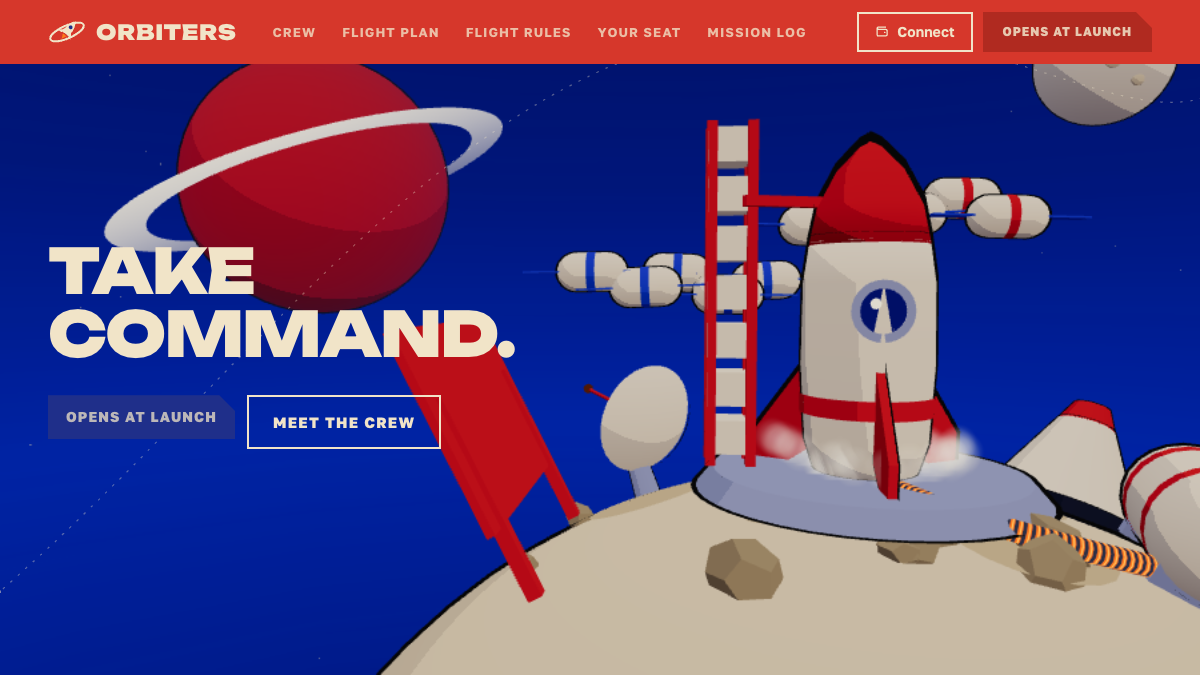
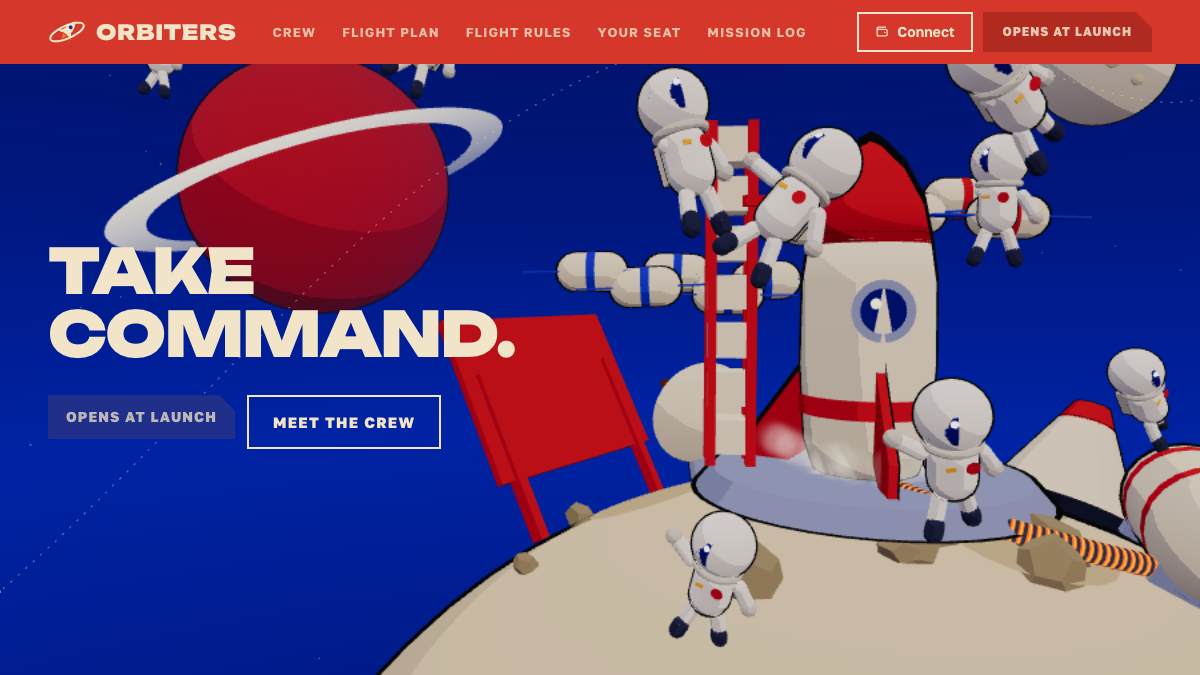
Hero: a crowd of cartoon astronauts drifting around the rocket
Nine on desktop, five on phones, in full suits (helmet with visor and glint,
neck ring, backpack, patch, gloves, boots), one arm waving. Placed by where
they land in the opening frame so they float beside and above the rocket,
never behind the headline; they drift on slow loops and sway toward the
camera. og-image recaptured.

diff --git a/src/kp/SpaceWalk.tsx b/src/kp/SpaceWalk.tsx
@@ -592,6 +592,130 @@ function Radar() {
   );
 }
 
+/* ───────── astronauts drifting around the pad in their suits ───────── */
+type Drift = { at: THREE.Vector3; scale: number; phase: number; wave: number };
+/**
+ * Placed by where they should land in the opening's frame (sx, sy in -1..1, depth d), so they
+ * float beside and above the rocket and never behind the headline.
+ */
+function inView(pos: V3, look: V3, fov: number, aspect: number, spots: [number, number, number, number][]): Drift[] {
+  const p = new THREE.Vector3(...pos);
+  const f = new THREE.Vector3(...look).sub(p).normalize();
+  const right = new THREE.Vector3().crossVectors(f, new THREE.Vector3(0, 1, 0)).normalize();
+  const up = new THREE.Vector3().crossVectors(right, f);
+  const tv = Math.tan(THREE.MathUtils.degToRad(fov / 2));
+  return spots.map(([sx, sy, d, scale], i) => ({
+    at: p.clone().addScaledVector(f, d).addScaledVector(right, sx * tv * aspect * d).addScaledVector(up, sy * tv * d),
+    scale,
+    phase: i * 1.37,
+    wave: i % 2 ? -1 : 1,
+  }));
+}
+
+function Astronauts({ narrow }: { narrow: boolean }) {
+  const list = useMemo(() => {
+    const st = stations(narrow)[0];
+    return narrow
+      ? inView(st.pos, st.look, 60, 0.46, [
+          [-0.55, 0.74, 10, 0.62],
+          [0.5, 0.58, 9, 0.6],
+          [0.02, 0.88, 13, 0.56],
+          [0.72, 0.86, 14, 0.5],
+          [-0.3, 0.42, 8, 0.5],
+        ])
+      : inView(st.pos, st.look, 46, 1.6, [
+          [0.12, 0.6, 10, 0.72],
+          [0.4, 0.42, 9, 0.66],
+          [0.8, 0.32, 11, 0.6],
+          [0.62, -0.36, 8, 0.56],
+          [0.94, -0.12, 13, 0.6],
+          [-0.32, 0.82, 12, 0.56],
+          [-0.78, 0.8, 14, 0.52],
+          [0.26, -0.68, 7, 0.46],
+          [0.7, 0.76, 7, 0.5],
+        ]);
+  }, [narrow]);
+  const refs = useRef<(THREE.Group | null)[]>([]);
+  const arms = useRef<(THREE.Group | null)[]>([]);
+  const m = useMemo(
+    () => ({
+      suit: toon("#f6f1e6"),
+      shade: toon("#d9d2c4"),
+      visor: toon(C.blue),
+      gold: toon("#ffb43a"),
+      red: toon(C.red),
+      boot: toon("#3a3f5c"),
+      shine: new THREE.MeshBasicMaterial({ color: "#ffffff" }),
+    }),
+    [],
+  );
+  const g = useMemo(
+    () => ({
+      helmet: new THREE.SphereGeometry(0.62, 28, 20),
+      visor: new THREE.SphereGeometry(0.5, 24, 16, -Math.PI * 0.42, Math.PI * 0.84, Math.PI * 0.26, Math.PI * 0.42),
+      ring: new THREE.TorusGeometry(0.44, 0.08, 10, 28).rotateX(Math.PI / 2),
+      torso: new THREE.CapsuleGeometry(0.42, 0.45, 6, 16),
+      pack: new THREE.BoxGeometry(0.62, 0.72, 0.28),
+      limb: new THREE.CapsuleGeometry(0.15, 0.42, 4, 10),
+      glove: new THREE.SphereGeometry(0.17, 12, 10),
+      boot: new THREE.CapsuleGeometry(0.17, 0.16, 4, 10),
+      patch: new THREE.CircleGeometry(0.12, 16),
+      glint: new THREE.CircleGeometry(0.07, 10),
+    }),
+    [],
+  );
+  useFrame((s) => {
+    const t = s.clock.elapsedTime;
+    list.forEach((d, i) => {
+      const a = refs.current[i];
+      if (a) {
+        const k = t * 0.32 + d.phase;
+        // drift on a slow loop and sway, mostly facing the camera
+        a.position.set(d.at.x + Math.sin(k) * 0.45, d.at.y + Math.sin(k * 1.3 + 1) * 0.35, d.at.z + Math.cos(k * 0.8) * 0.3);
+        a.rotation.set(Math.sin(t * 0.5 + d.phase) * 0.35, Math.sin(t * 0.3 + d.phase) * 0.6, Math.sin(t * 0.4 + d.phase) * 0.5 + d.wave * 0.25);
+      }
+      const w = arms.current[i];
+      if (w) w.rotation.z = d.wave * (1.9 + Math.sin(t * 2.2 + d.phase) * 0.35); // one arm waves
+    });
+  });
+  return (
+    <group>
+      {list.map((d, i) => (
+        <group key={i} ref={(el) => void (refs.current[i] = el)} scale={d.scale}>
+          {/* helmet, visor with a glint, neck ring */}
+          <Inked geometry={g.helmet} material={m.suit} position={[0, 1.02, 0]} ink={1.05} />
+          <mesh geometry={g.visor} material={m.visor} position={[0, 1.02, 0.14]} />
+          <mesh geometry={g.glint} material={m.shine} position={[-0.18, 1.2, 0.6]} rotation={[-0.3, -0.3, 0]} />
+          <mesh geometry={g.ring} material={m.shade} position={[0, 0.5, 0]} />
+          {/* suit, backpack, patch */}
+          <Inked geometry={g.torso} material={m.suit} position={[0, 0, 0]} ink={1.06} />
+          <Inked geometry={g.pack} material={m.shade} position={[0, 0.08, -0.4]} ink={1.05} />
+          <mesh geometry={g.patch} material={m.red} position={[0.2, 0.18, 0.425]} />
+          <mesh material={m.gold} position={[-0.17, 0.2, 0.42]}>
+            <boxGeometry args={[0.16, 0.08, 0.02]} />
+          </mesh>
+          {/* arms: the left one waves */}
+          <group ref={(el) => void (arms.current[i] = el)} position={[-0.46, 0.3, 0]}>
+            <mesh geometry={g.limb} material={m.suit} position={[0, -0.32, 0]} />
+            <mesh geometry={g.glove} material={m.shade} position={[0, -0.68, 0]} />
+          </group>
+          <group position={[0.46, 0.3, 0]} rotation={[0.3, 0, 0.5]}>
+            <mesh geometry={g.limb} material={m.suit} position={[0, -0.32, 0]} />
+            <mesh geometry={g.glove} material={m.shade} position={[0, -0.68, 0]} />
+          </group>
+          {/* legs, splayed like floating */}
+          {[-1, 1].map((sd) => (
+            <group key={sd} position={[sd * 0.2, -0.55, 0]} rotation={[sd * 0.25, 0, sd * 0.28]}>
+              <mesh geometry={g.limb} material={m.suit} position={[0, -0.3, 0]} />
+              <mesh geometry={g.boot} material={m.boot} position={[0, -0.68, 0.05]} />
+            </group>
+          ))}
+        </group>
+      ))}
+    </group>
+  );
+}
+
 /* ───────── a satellite crossing the sky ───────── */
 function Satellite() {
   const ref = useRef<THREE.Group>(null);
@@ -694,6 +818,7 @@ function Walk({ narrow, names, still }: { narrow: boolean; names: string[]; stil
       <Capsule open={hatch} />
       <Radar />
       <Satellite />
+      <Astronauts narrow={narrow} />
     </>
   );
 }

diff --git a/DESIGN.md b/DESIGN.md
@@ -85,7 +85,7 @@ components:
 
 **Creative North Star: "Space Race Poster"**
 
-Orbiters reads like a 1960s space-race poster that you scroll through. Flat fields of signal red, paper cream and ultramarine sit on night blue, cut on the diagonal; big circles carry the people; heavy wide capitals carry the claims. Behind it all is a light-cartoon 3D planet (`src/kp/SpaceWalk.tsx`): a rocket on its pad atop a tiny cream world, crew pods in orbit with names on them, a fuel line, a flight-rules billboard, a landed capsule, a radar dish, and a red ringed planet far off. At the end of the page the rocket lifts off.
+Orbiters reads like a 1960s space-race poster that you scroll through. Flat fields of signal red, paper cream and ultramarine sit on night blue, cut on the diagonal; big circles carry the people; heavy wide capitals carry the claims. Behind it all is a light-cartoon 3D planet (`src/kp/SpaceWalk.tsx`): a rocket on its pad atop a tiny cream world, crew pods in orbit with names on them, a fuel line, a flight-rules billboard, a landed capsule, a radar dish, a red ringed planet far off, and a crowd of cartoon astronauts in full suits drifting around the rocket in the opening (placed by screen position so they never sit behind the headline). At the end of the page the rocket lifts off.
 
 One orbit arc (`src/kp/Orbit.tsx`) crosses the whole page and is drawn as you scroll, with a small rocket riding its head. It is the page's only governing curve. Between sections a diagonal band slides across carrying the next section's name (`src/kp/Band.tsx`), while the 3D camera moves to the next subject behind it.
 
